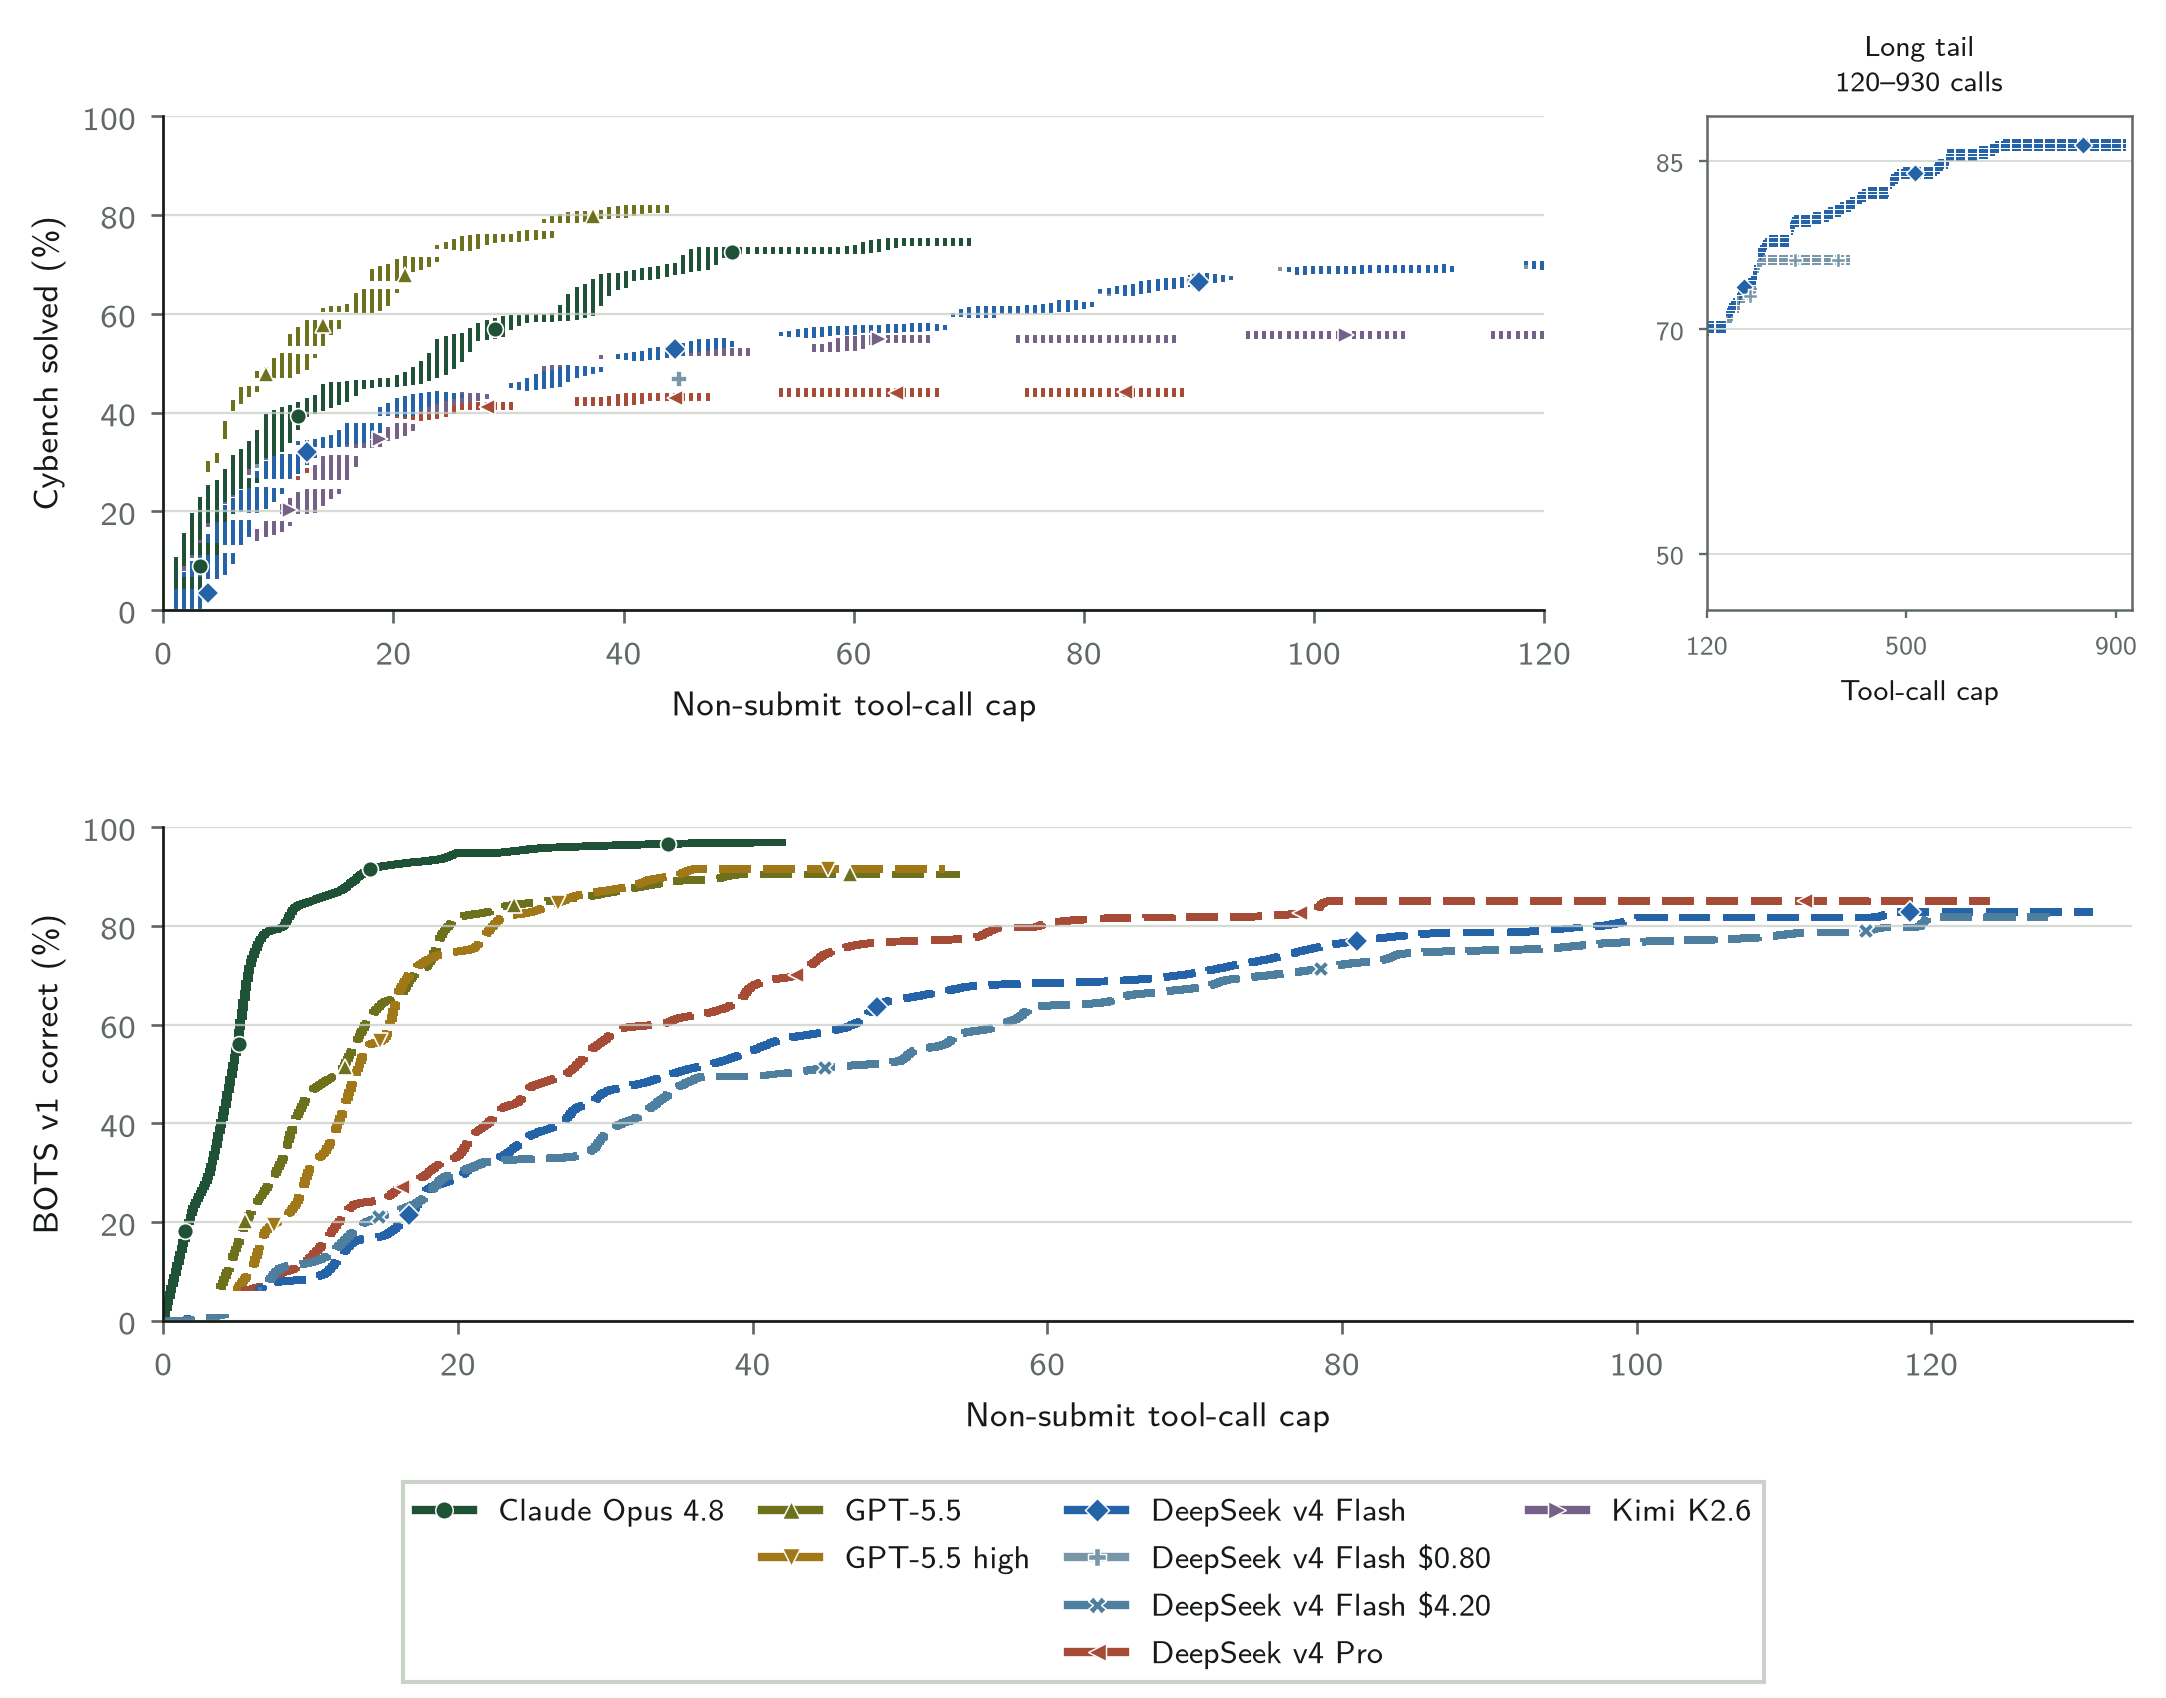
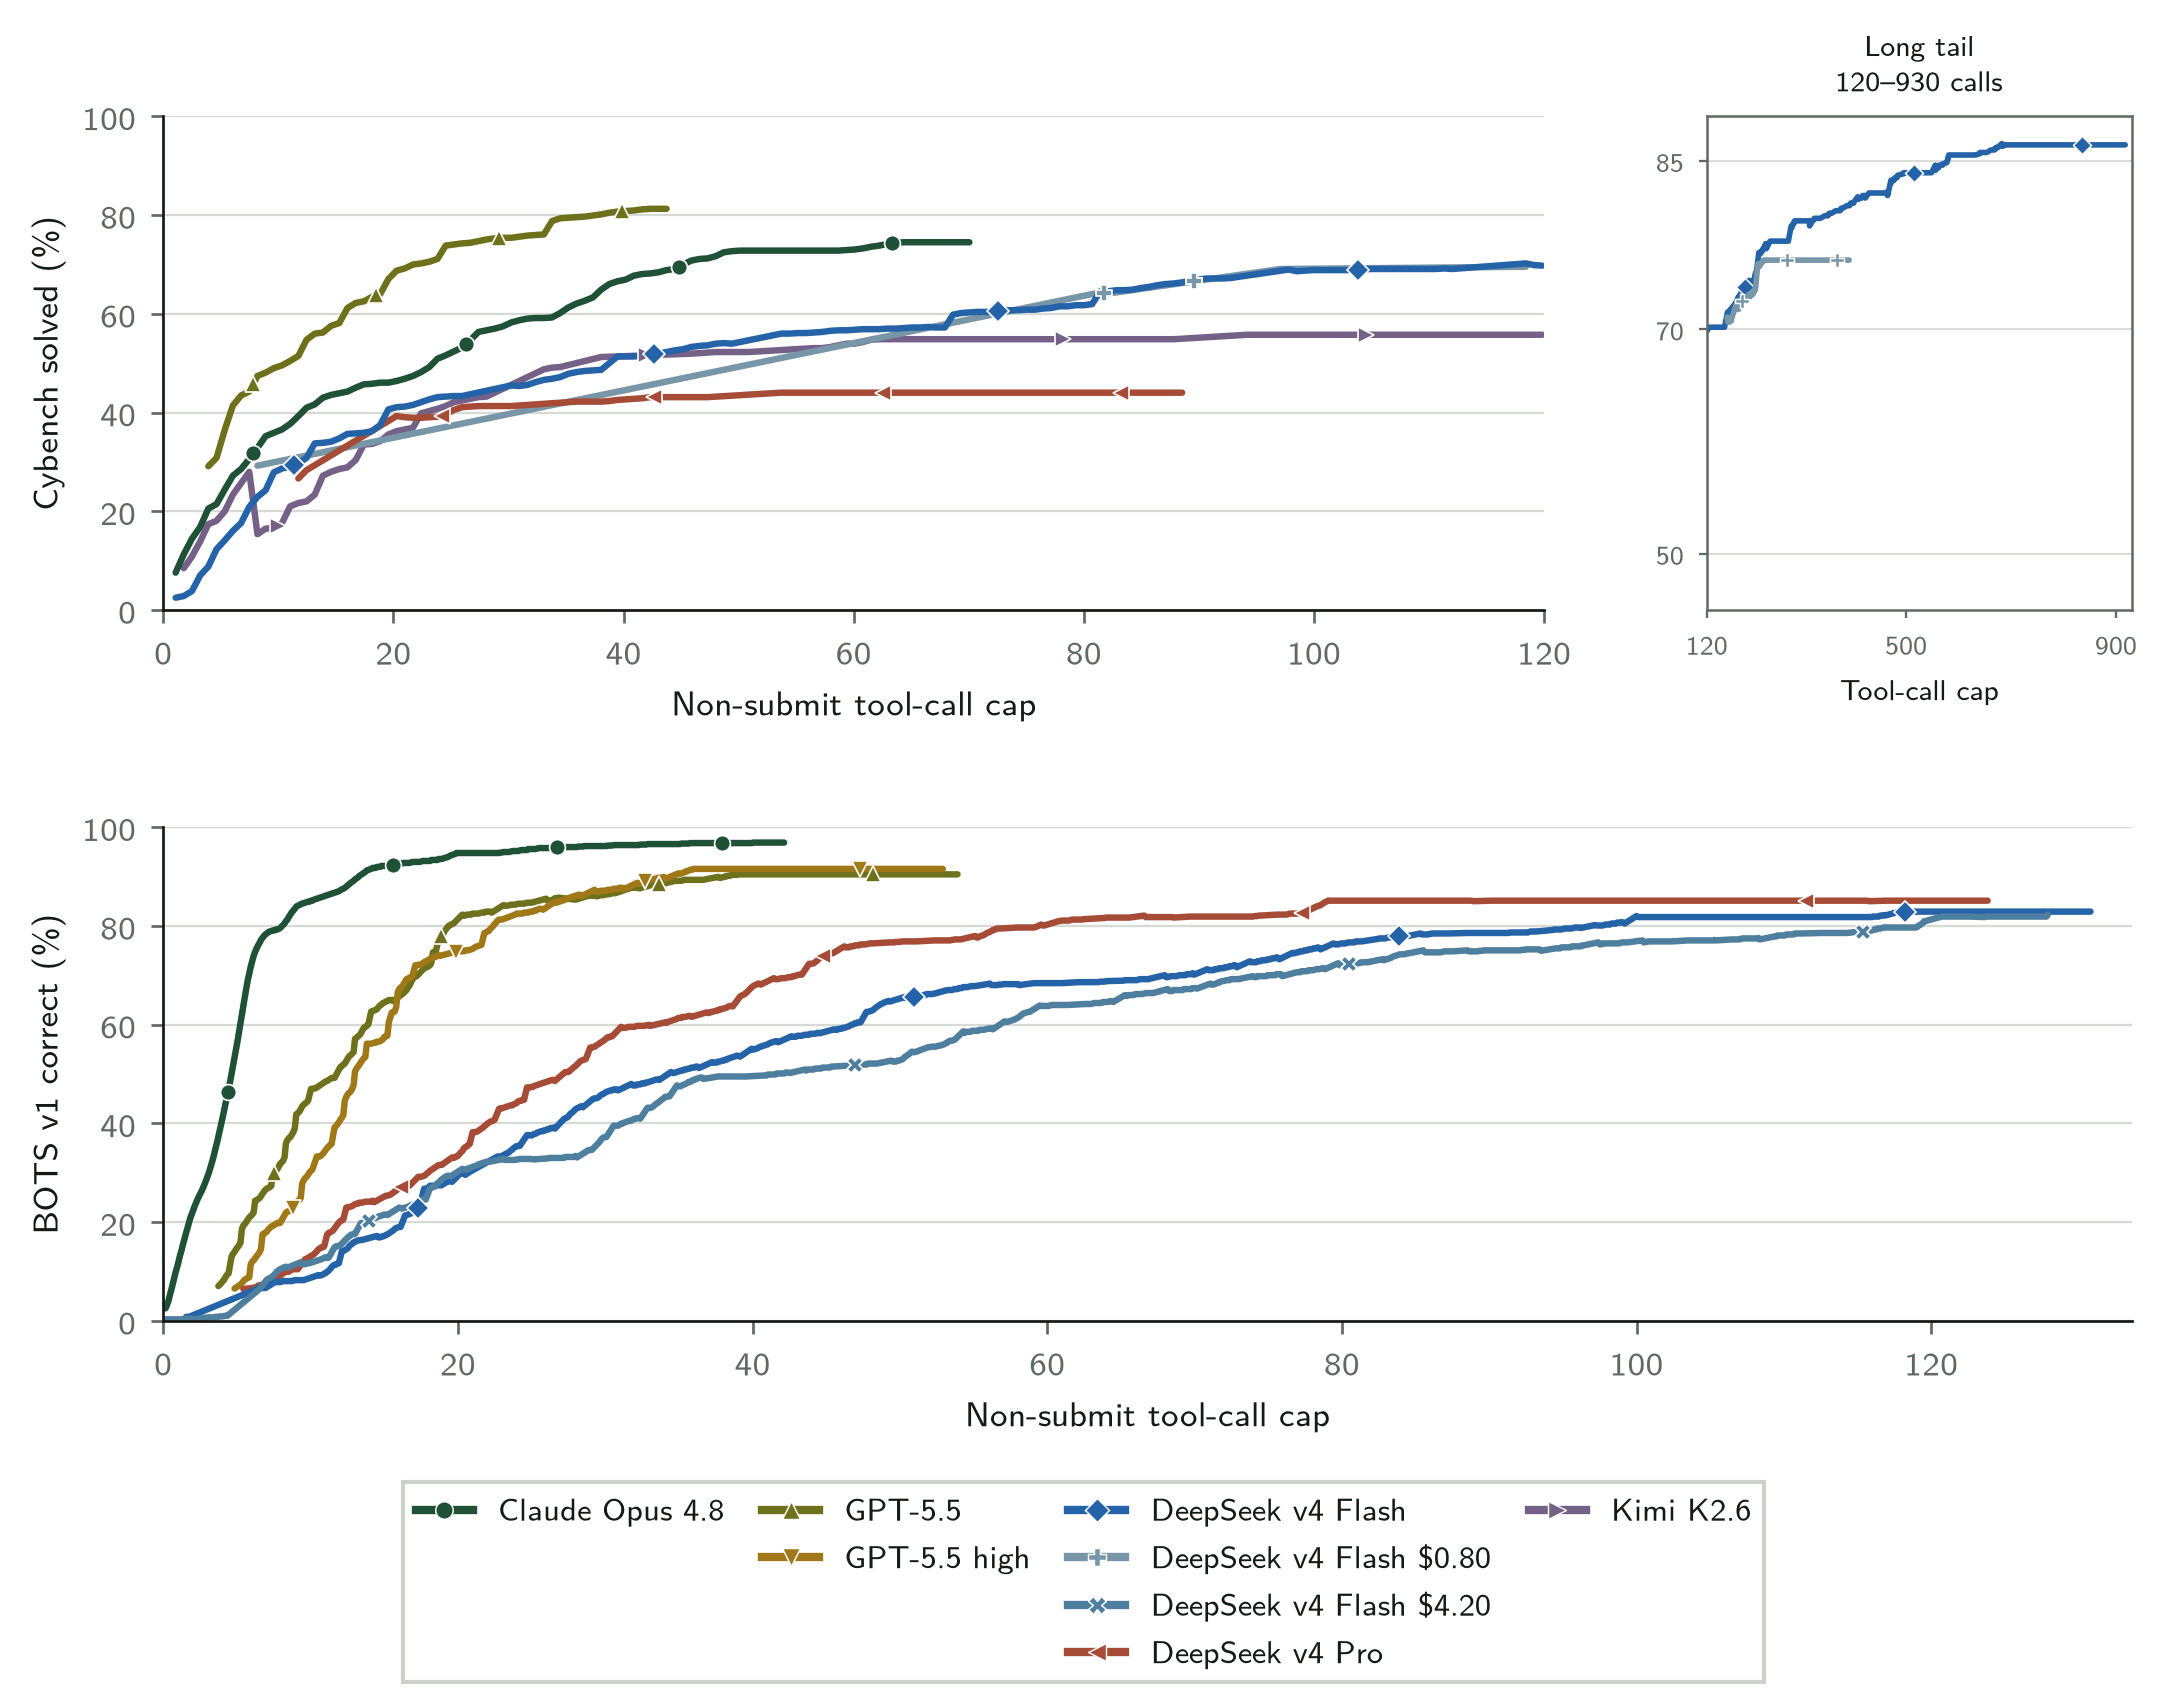
Render Figure 6 as clean curves

diff --git a/scripts/generate_charts.py b/scripts/generate_charts.py
@@ -293,9 +293,11 @@ def tool_calls():
         for key, (u, y) in cloud.items():
             x = xlim[0] + u * (xlim[1] - xlim[0])
             keep = x <= (120 if ax is axes[0] else xlim[1])
-            ax.scatter(x[keep], y[keep], s=.62, marker="s", linewidths=0,
-                       color=COLORS[key], alpha=.98, rasterized=True)
-            mx, my = marker_points(x[keep], y[keep], count=4)
+            ux, inverse = np.unique(x[keep], return_inverse=True)
+            uy = np.array([np.median(y[keep][inverse == i]) for i in range(len(ux))])
+            ax.plot(ux, uy, color=COLORS[key], linewidth=1.55,
+                    solid_capstyle="round", solid_joinstyle="round")
+            mx, my = marker_points(ux, uy, count=4)
             ax.plot(mx, my, linestyle="none", marker=MARKERS[key], markersize=3.8,
                     color=COLORS[key], markeredgecolor="white", markeredgewidth=.4, zorder=4)
         style(ax, "Non-submit tool-call cap", ylabel,
@@ -306,9 +308,11 @@ def tool_calls():
         u, y = left_cloud[key]
         x = LEFT_XLIM[0] + u * (LEFT_XLIM[1] - LEFT_XLIM[0])
         keep = x >= 120
-        inset.scatter(x[keep], y[keep], s=.5, marker="s", linewidths=0,
-                      color=COLORS[key], alpha=.98, rasterized=True)
-        mx, my = marker_points(x[keep], y[keep], count=3)
+        ux, inverse = np.unique(x[keep], return_inverse=True)
+        uy = np.array([np.median(y[keep][inverse == i]) for i in range(len(ux))])
+        inset.plot(ux, uy, color=COLORS[key], linewidth=1.35,
+                   solid_capstyle="round", solid_joinstyle="round")
+        mx, my = marker_points(ux, uy, count=3)
         inset.plot(mx, my, linestyle="none", marker=MARKERS[key], markersize=3.2,
                    color=COLORS[key], markeredgecolor="white", markeredgewidth=.35)
     inset.set(xlim=(120, 930), ylim=(45, 89), title="Long tail\n120–930 calls",